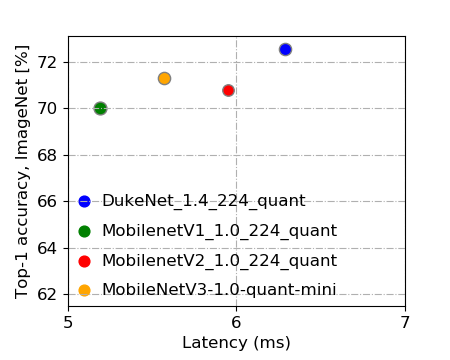
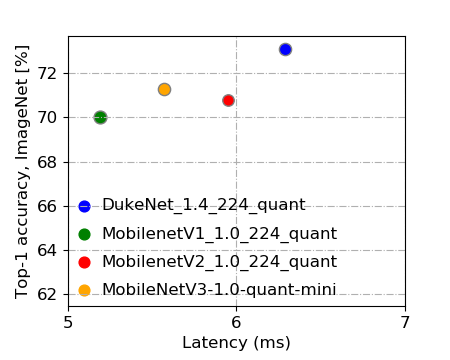
update description

diff --git a/g3doc/plot_dukenet_comp.py b/g3doc/plot_dukenet_comp.py
@@ -1,7 +1,3 @@
-# DukeNet 10/21 submission
-# uint8: 72.56/91.34
-# float: 73.00/91.39
-
 import numpy as np
 import matplotlib.pyplot as plt
 # from matplotlib import gridspec
@@ -13,7 +9,7 @@ colors=['blue', 'g', 'r', 'orange']
 scaling_size = 20
 
 Ours_latency = (6.29)
-Ours_Top1 = (72.56)
+Ours_Top1 = (73.12)
 Ours_Paras = np.array((3.87))*scaling_size
 
 MobileNet_v1_latency = (5.19)

diff --git a/README.md b/README.md
@@ -41,8 +41,10 @@ It's inspired by MobileNetv3. We add the following modifications for Qualcomm He
 
 ## Version
 **Alpha Release v1.1 (10/24)**
++ [Model1024_73.12_6.29](https://github.com/newwhitecheng/dukenet/blob/master/Model1019_72.56_6.2ms) serve as the final submission. 
 + Accuracy finetuned to 73.53% for fp32 model and 73.12% for quantized model.
 Latency: 6.29ms.
++ Including floating point model, uint8 model and pass the script provided by host site.  
 
 
 **Alpha Release v1.0 (10/21)**
